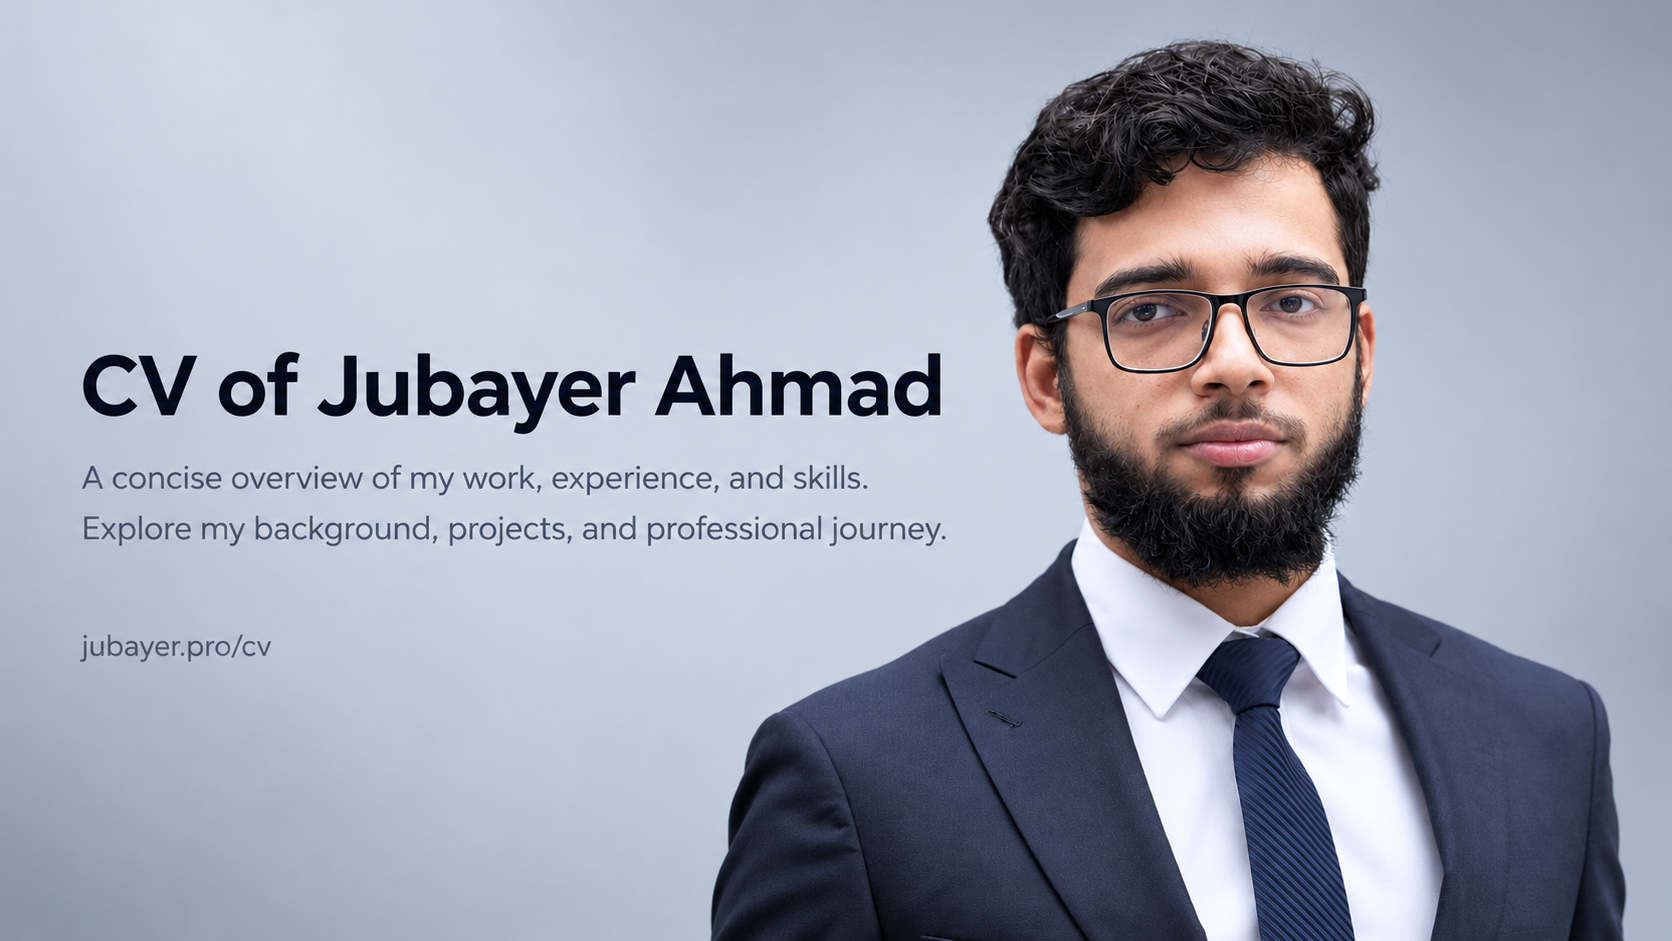
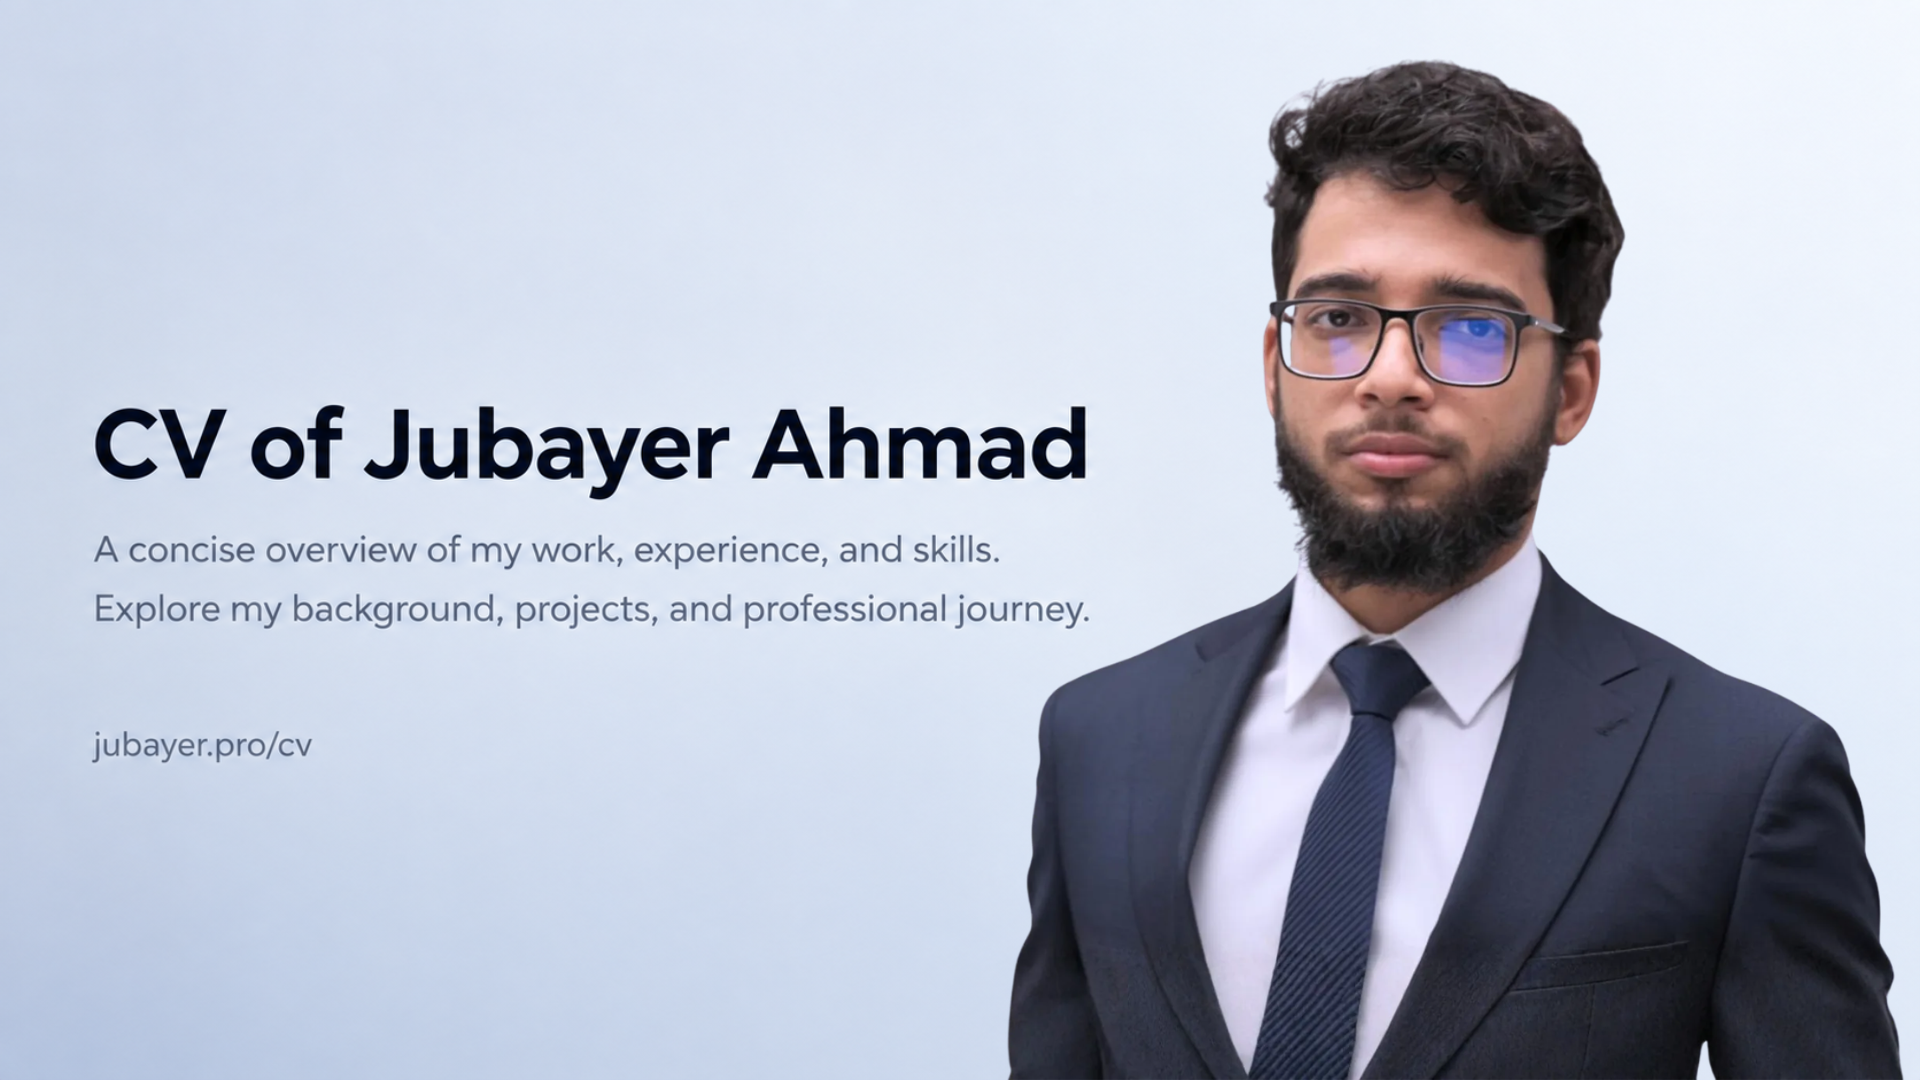
update CV Open Graph cover image

diff --git a/cv/index.html b/cv/index.html
@@ -14,8 +14,8 @@
     <meta property="og:image" content="https://jubayer.pro/cv/CV-OG-Cover.png">
     <meta property="og:image:secure_url" content="https://jubayer.pro/cv/CV-OG-Cover.png">
     <meta property="og:image:type" content="image/png">
-    <meta property="og:image:width" content="1672">
-    <meta property="og:image:height" content="941">
+    <meta property="og:image:width" content="1920">
+    <meta property="og:image:height" content="1080">
     <meta property="og:image:alt" content="CV of Jubayer Ahmad">
     <meta property="og:url" content="https://jubayer.pro/cv">
     <meta property="og:type" content="website">
